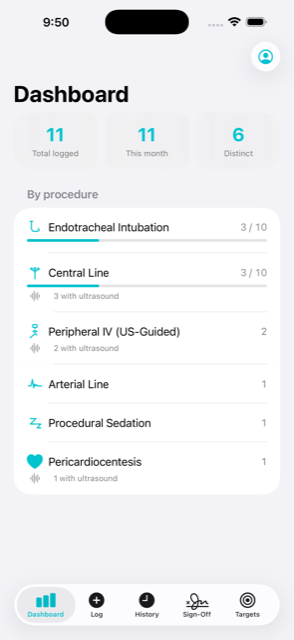
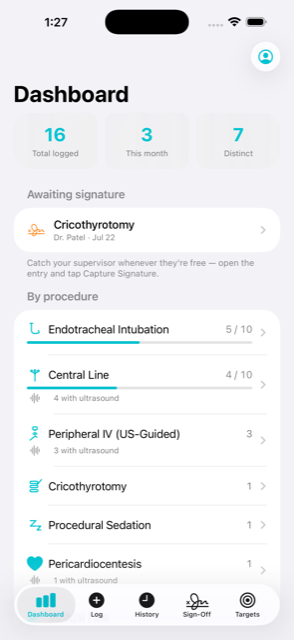
Site: app is live, new screenshots

diff --git a/index.html b/index.html
@@ -65,15 +65,14 @@
   </div>
 
   <a class="cta" href="https://apps.apple.com/app/id6793305441">Download on the App&nbsp;Store<small>iPhone · iOS 17+ · Free</small></a>
-  <p class="soon">In App Review — launching soon. This link goes live the moment it's approved.</p>
+  <p class="soon">Now available on the App Store. Free to download — Pro unlocks the sign-off tools.</p>
 
   <div class="shots" id="shots">
+    <img src="img/02-signature.png" alt="Supervisor signing a procedure on the phone at the bedside">
+    <img src="img/03-autofill.png" alt="Hospital competency form auto-filled with evaluator signatures">
+    <img src="img/04-attestation.png" alt="Attestation PDF with individual supervisor signatures">
     <img src="img/01-dashboard.png" alt="Dashboard with procedure counts and progress bars">
-    <img src="img/06-attestation.png" alt="Supervisor signature captured on a logged procedure">
-    <img src="img/02-log-grid.png" alt="Two-tap procedure logging grid">
-    <img src="img/03-entry-sheet.png" alt="Entry sheet with ultrasound guidance toggle">
-    <img src="img/04-signoff.png" alt="Sign-off tab with attestation PDF and form filling">
-    <img src="img/05-targets.png" alt="Credentialing targets">
+    <img src="img/05-log.png" alt="Two-tap procedure logging grid">
   </div>
   <div class="shot-nav">
     <button type="button" aria-label="Previous screenshots" onclick="scrollShots(-1)">‹</button>
